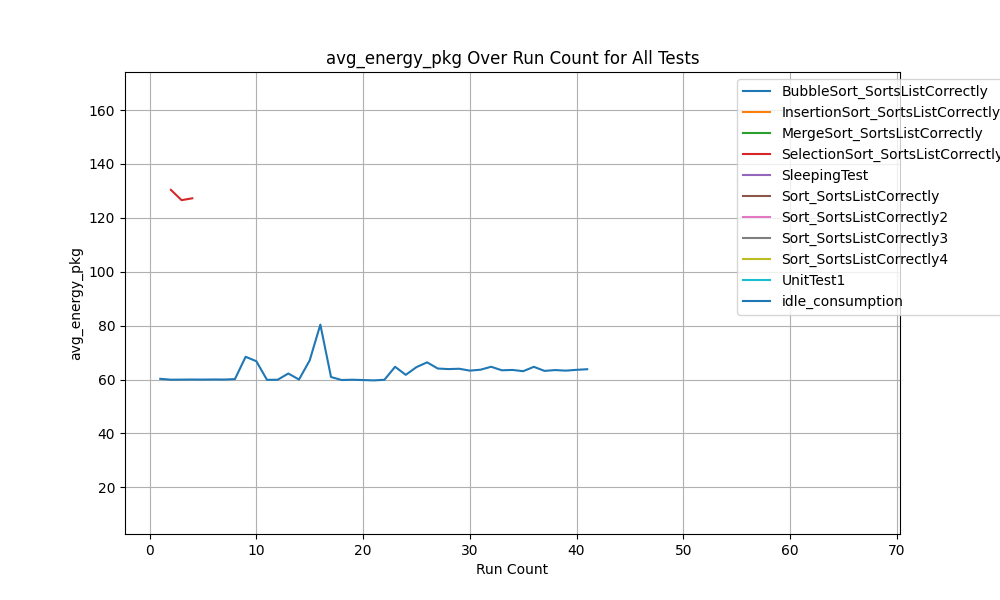
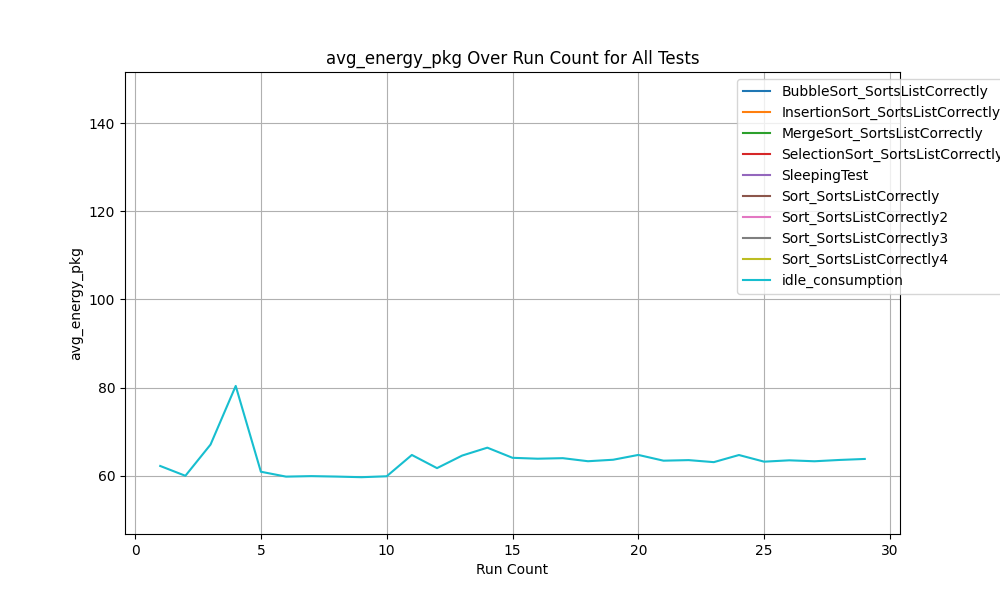
add new plot for single metric

diff --git a/CpuIntensiveApp/Plot-Data/plot_results_4_metric.py b/CpuIntensiveApp/Plot-Data/plot_results_4_metric.py
@@ -24,7 +24,7 @@ client = InfluxDBClient(url=url, token=token, org=org)
 # Define the Flux query for all tests but only for the selected metric
 query = f'''
 from(bucket: "{bucket}")
-  |> range(start: -30d)
+  |> range(start: -300m)
   |> filter(fn: (r) => r._measurement == "unit_test_energy" and r._field == "{metric}")
   |> pivot(rowKey:["_time"], columnKey: ["test_name"], valueColumn: "_value")
   |> sort(columns: ["_time"])
